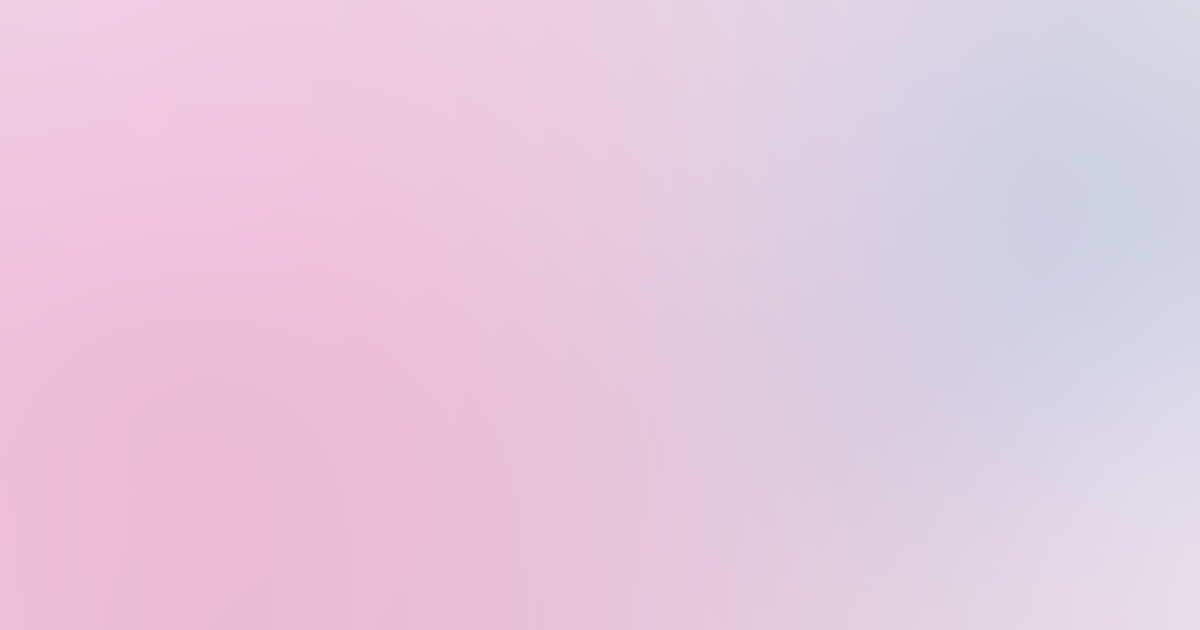
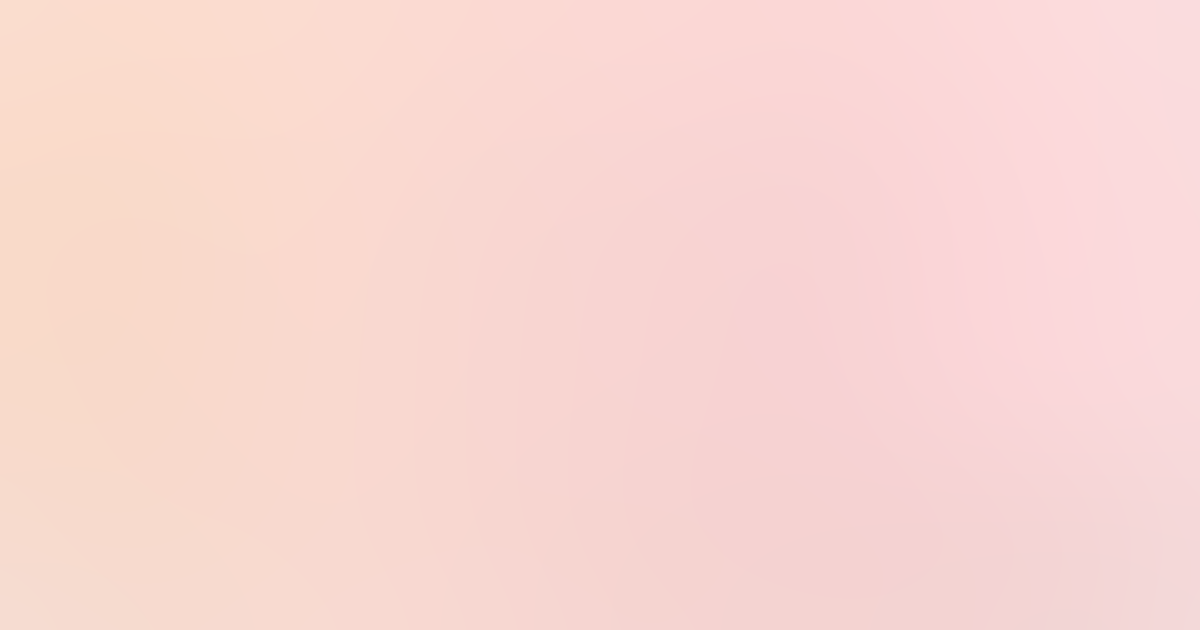
feat: generate ogp

diff --git a/AGENTS.md b/AGENTS.md
@@ -1,0 +1,119 @@
+# AGENTS.md
+
+This file provides guidance to Codex (Codex.ai/code) when working with code in this repository.
+
+## Repository Structure
+
+This is a monorepo:
+
+```
+/
+├── sites/
+│   ├── 0xjj.dev/        ← Astro site (main)
+│   └── playground.0xjj.dev/ ← Next.js playground (tools, games & experiments)
+├── workers/
+│   └── games/           ← Unified game server with multiple DOs (games-api.0xjj.dev)
+└── scripts/
+    └── generate-ogp/    ← Go script for OGP background image generation
+```
+
+## Development Commands
+
+Run from `sites/0xjj.dev/`:
+
+- `bun dev` - Start Astro dev server
+- `bun run build` - Build for production
+- `bun run preview` - Preview production build locally
+- `wrangler deploy` - Deploy to Cloudflare Workers
+
+Run from `scripts/generate-ogp/`:
+
+- `make gen` - Generate OGP background PNGs (outputs to `sites/0xjj.dev/public/og/bg/`)
+
+## Architecture Overview
+
+Personal portfolio/blog site for JJ (Junya Kono) — v4 is built with **Astro 5** + **Tailwind CSS v4** + **React 19**, deployed via **Cloudflare Workers** (static assets mode) with Wrangler.
+
+### Stack
+
+- **Astro 5** with Vite — static site generation
+- **React 19** via `@astrojs/react` — used for interactive components (e.g. `Signature.tsx`)
+- **Tailwind CSS v4** via `@tailwindcss/vite` plugin (no `tailwind.config.*` file needed)
+- **Wrangler** for Cloudflare Workers deployment (static assets + Worker hybrid)
+- **Cloudflare KV** (`BLOG_VIEWS`) — blog post view count storage
+- **Astro View Transitions** (`ClientRouter`) — SPA-like navigation
+
+### Key Files
+
+| Path | Purpose |
+|---|---|
+| `sites/0xjj.dev/src/layouts/Layout.astro` | Root HTML shell — `global.css`, OG meta, `lang="ja"`, `ClientRouter` |
+| `sites/0xjj.dev/src/styles/global.css` | Tailwind import + CSS variables (colors, fonts) |
+| `sites/0xjj.dev/src/pages/index.astro` | Top page (Hero + Skills + Timeline) |
+| `sites/0xjj.dev/src/pages/blog/index.astro` | Blog list with client-side search + Popular Posts Top 3 |
+| `sites/0xjj.dev/src/pages/blog/[slug].astro` | Blog post page with view tracking |
+| `sites/0xjj.dev/worker/index.ts` | Worker API — blog view count endpoints (KV) |
+| `sites/0xjj.dev/src/pages/og/[slug].png.ts` | Dynamic OGP image generation (satori + resvg-wasm) |
+| `sites/0xjj.dev/src/pages/rss.xml.ts` | RSS feed |
+| `sites/0xjj.dev/src/content/config.ts` | Astro content collections schema |
+| `sites/0xjj.dev/astro.config.mjs` | Astro config — integrations, markdown plugins, Vite setup |
+| `sites/0xjj.dev/wrangler.jsonc` | Cloudflare Workers config (static assets + Worker hybrid, KV binding) |
+
+### Content Collections
+
+Defined in `src/content/config.ts` using Astro's Content Layer API:
+
+| Collection | Source | Schema |
+|---|---|---|
+| `blog` | `src/content/blog/*.md` | `title`, `date` |
+| `work` | `src/content/work.yaml` | `date`, `title`, `role`, `url?`, `current?` |
+| `project` | `src/content/project.yaml` | `date`, `title`, `url`, `type?`, `render?` |
+| `skill` | `src/content/skills.yaml` | `id`, `rate` (1–5), `category?` |
+
+### OGP Image Generation
+
+Blog posts get dynamic OGP images at `/og/[slug].png`:
+
+- **Runtime**: `satori` renders an HTML-like tree to SVG; `@resvg/resvg-wasm` converts SVG → PNG
+- **Background**: Pre-generated pastel PNGs at `public/og/bg/[slug].png` — regenerate via `make gen` in `scripts/generate-ogp/`
+- **Fonts for OGP**: Inter + Noto Sans JP loaded from `@fontsource` packages (not Google Fonts)
+
+### Blog View Tracking
+
+Blog post views are tracked via a Cloudflare Worker API backed by KV (`BLOG_VIEWS` namespace):
+
+- **Architecture**: Static assets + Worker hybrid — `run_worker_first: ["/api/*"]` routes only `/api/*` to the Worker; all other requests serve static Astro files directly
+- **Worker**: `worker/index.ts` — 3 endpoints:
+  - `POST /api/views/:slug` — increment view count (fire-and-forget via `ctx.waitUntil`)
+  - `GET /api/views/top` — return Top 3 posts from `_top` KV key
+  - `GET /api/views/:slug` — return single post view count
+- **KV structure**: per-slug keys (`"gemini-api-poker"` → `"42"`) + `_top` index key (JSON array of top 3 sorted by views)
+- **Blog post page**: `astro:page-load` event fires POST (tracking) + GET (display view count) — progressive enhancement
+- **Blog index**: fetches `/api/views/top` and dynamically renders Popular Posts section — hidden if API fails
+
+### CSS Variables
+
+Colors and fonts are defined as CSS custom properties in `global.css` using Tailwind v4's `@theme` block. Dark mode is handled via `@media (prefers-color-scheme: dark)` overriding `:root` variables — no JavaScript needed.
+
+```css
+@theme { --color-bg: ...; --color-fg: ...; --color-muted: ...; --color-accent: ...; }
+@media (prefers-color-scheme: dark) { :root {} } /* dark overrides */
+```
+
+Custom colors (`bg`, `fg`, `muted`, `accent`) generate Tailwind utilities like `bg-bg`, `text-fg`, etc.
+
+### Markdown Plugins
+
+- `remark-directive` — `::`/`:::` directive syntax
+- `remarkZennMessage` — custom Zenn-style message/alert blocks
+- `remarkCodeMeta` — parses code block meta attributes
+- `rehype-shift-heading` (`shift: 1`) — shifts heading levels down by 1
+- `rehypeExternalLinks` — adds `target="_blank"` / `rel` to external links
+- Shiki transformer `code-filename` — renders `filename="..."` meta as a label on code blocks
+
+### Conventions
+
+- **Package manager**: Bun
+- **Fonts (site)**: DM Serif Display + JetBrains Mono via Google Fonts `@import`; preconnect links in `Layout.astro`
+- **Fonts (OGP)**: Inter + Noto Sans JP via `@fontsource` npm packages
+- **lang**: `ja` (Japanese)
